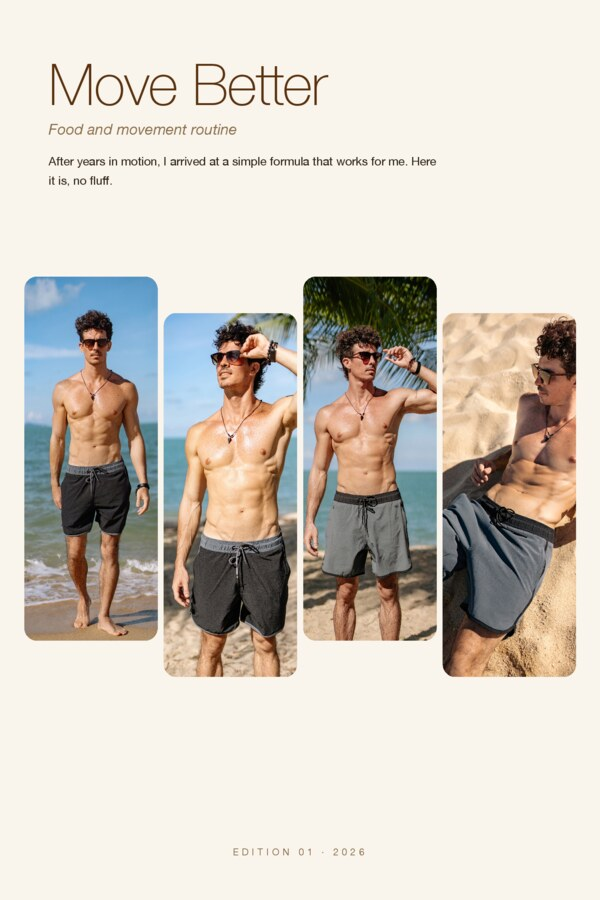
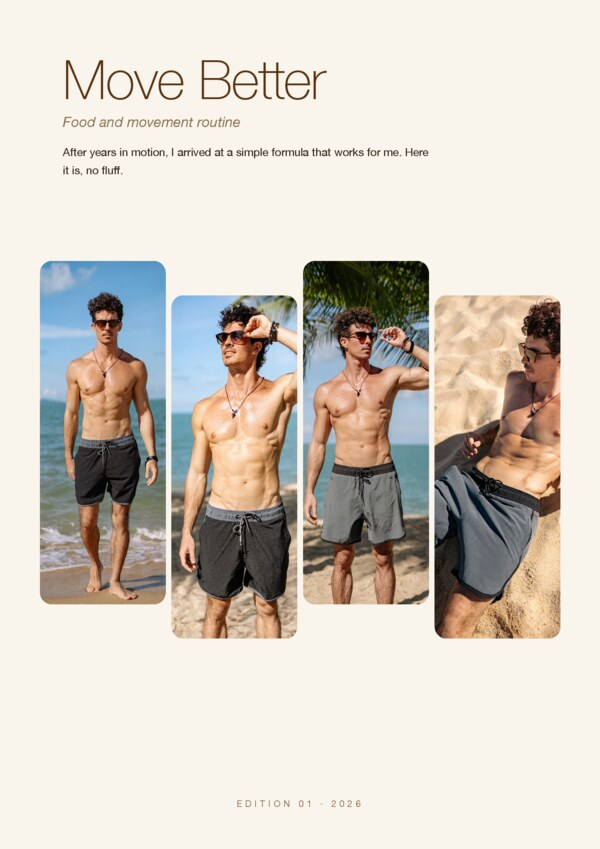
fix(ebooks): A4 cover ratio + padded cover inside dashboard card
- Regenerate move-better-en-cover.jpg at 600x849 (A4 ratio)
  instead of 600x900 (was getting cropped + felt too tall).
- Dashboard ebooks card: cover sits inside p-5 padding (no longer
  bleeds to the card edge) with its own ring + shadow, and uses the
  A4 aspect ratio. Cover column slimmed to 170px so the card fits
  the dashboard width better.
- Public /ebook/[slug] cover hero: same A4 ratio.

diff --git a/app/(dashboard)/dashboard/ebooks/page.tsx b/app/(dashboard)/dashboard/ebooks/page.tsx
@@ -38,17 +38,17 @@ export default async function EbooksPage() {
             ).length
             return (
               <Card key={book.slug} className="overflow-hidden">
-                <div className="grid gap-0 sm:grid-cols-[200px_1fr]">
-                  <div className="relative aspect-[2/3] bg-muted sm:aspect-auto">
+                <div className="grid gap-0 p-5 sm:grid-cols-[170px_1fr] sm:gap-5">
+                  <div className="relative mx-auto aspect-[210/297] w-40 overflow-hidden rounded-md bg-muted shadow-sm ring-1 ring-black/5 sm:mx-0 sm:w-full">
                     <Image
                       src={book.cover}
                       alt={`${book.title} cover`}
                       fill
-                      sizes="200px"
+                      sizes="170px"
                       className="object-cover"
                     />
                   </div>
-                  <CardContent className="space-y-4 p-5">
+                  <CardContent className="space-y-4 p-0">
                     <div className="flex items-start justify-between gap-3">
                       <div className="space-y-1">
                         <h2 className="text-xl font-semibold">{book.title}</h2>

diff --git a/app/ebook/[slug]/page.tsx b/app/ebook/[slug]/page.tsx
@@ -48,7 +48,7 @@ export default async function EbookLandingPage({
         <div className="grid gap-10 lg:grid-cols-2 lg:items-center">
           {/* Cover */}
           <div className="order-2 lg:order-1">
-            <div className="relative mx-auto aspect-[2/3] max-w-sm overflow-hidden rounded-xl shadow-2xl ring-1 ring-black/10">
+            <div className="relative mx-auto aspect-[210/297] max-w-sm overflow-hidden rounded-xl shadow-2xl ring-1 ring-black/10">
               <Image
                 src={ebook.cover}
                 alt={`${ebook.title} cover`}
